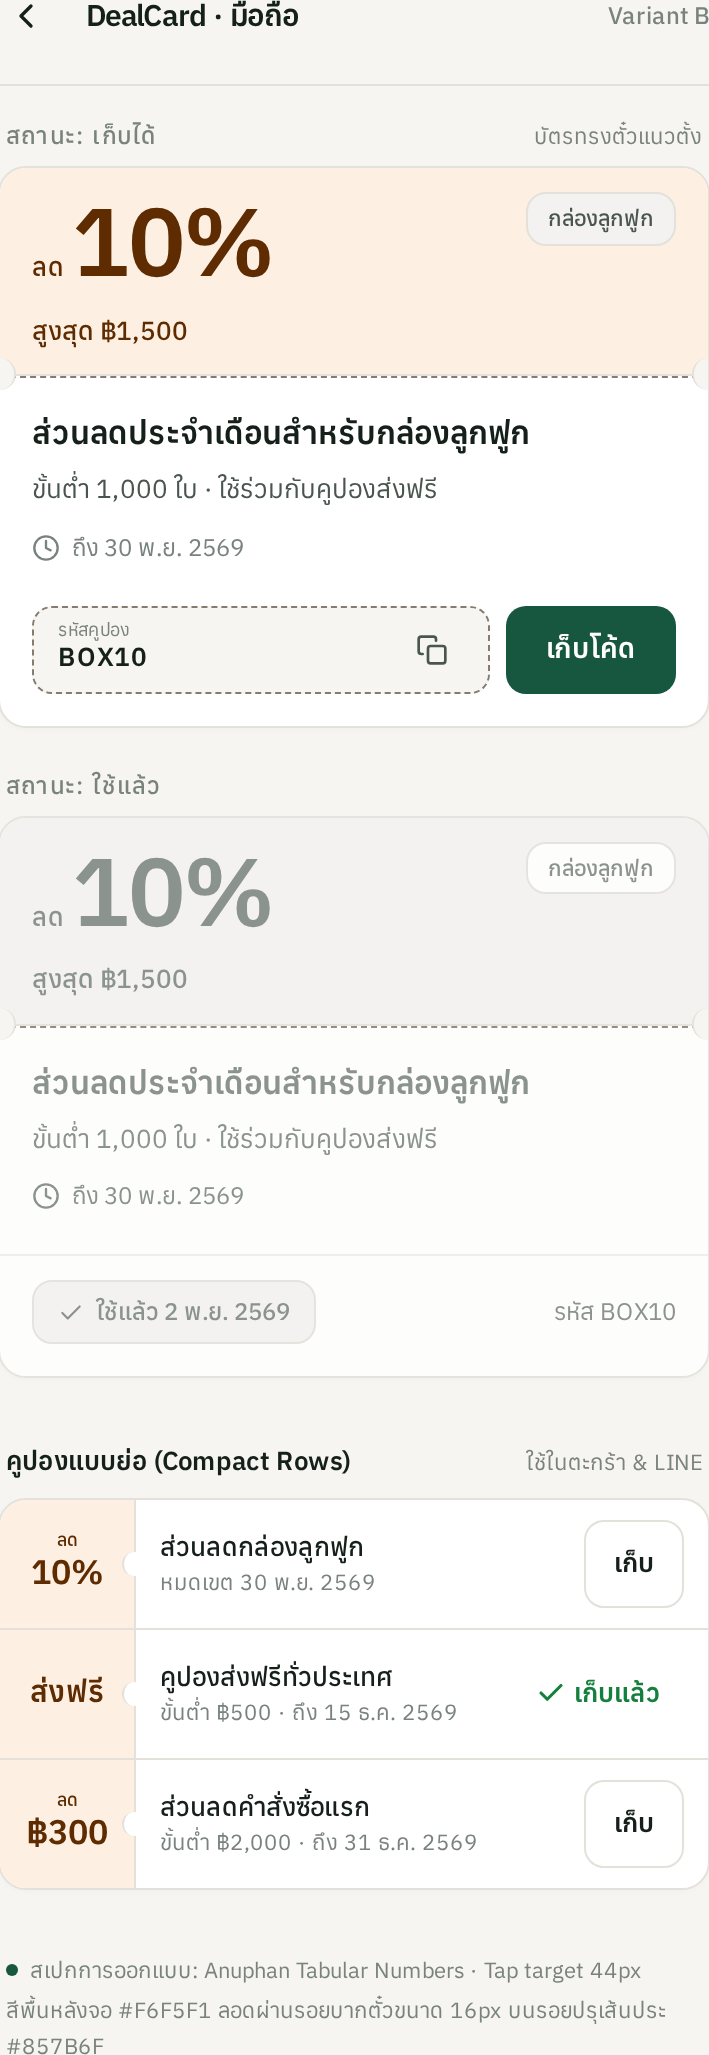
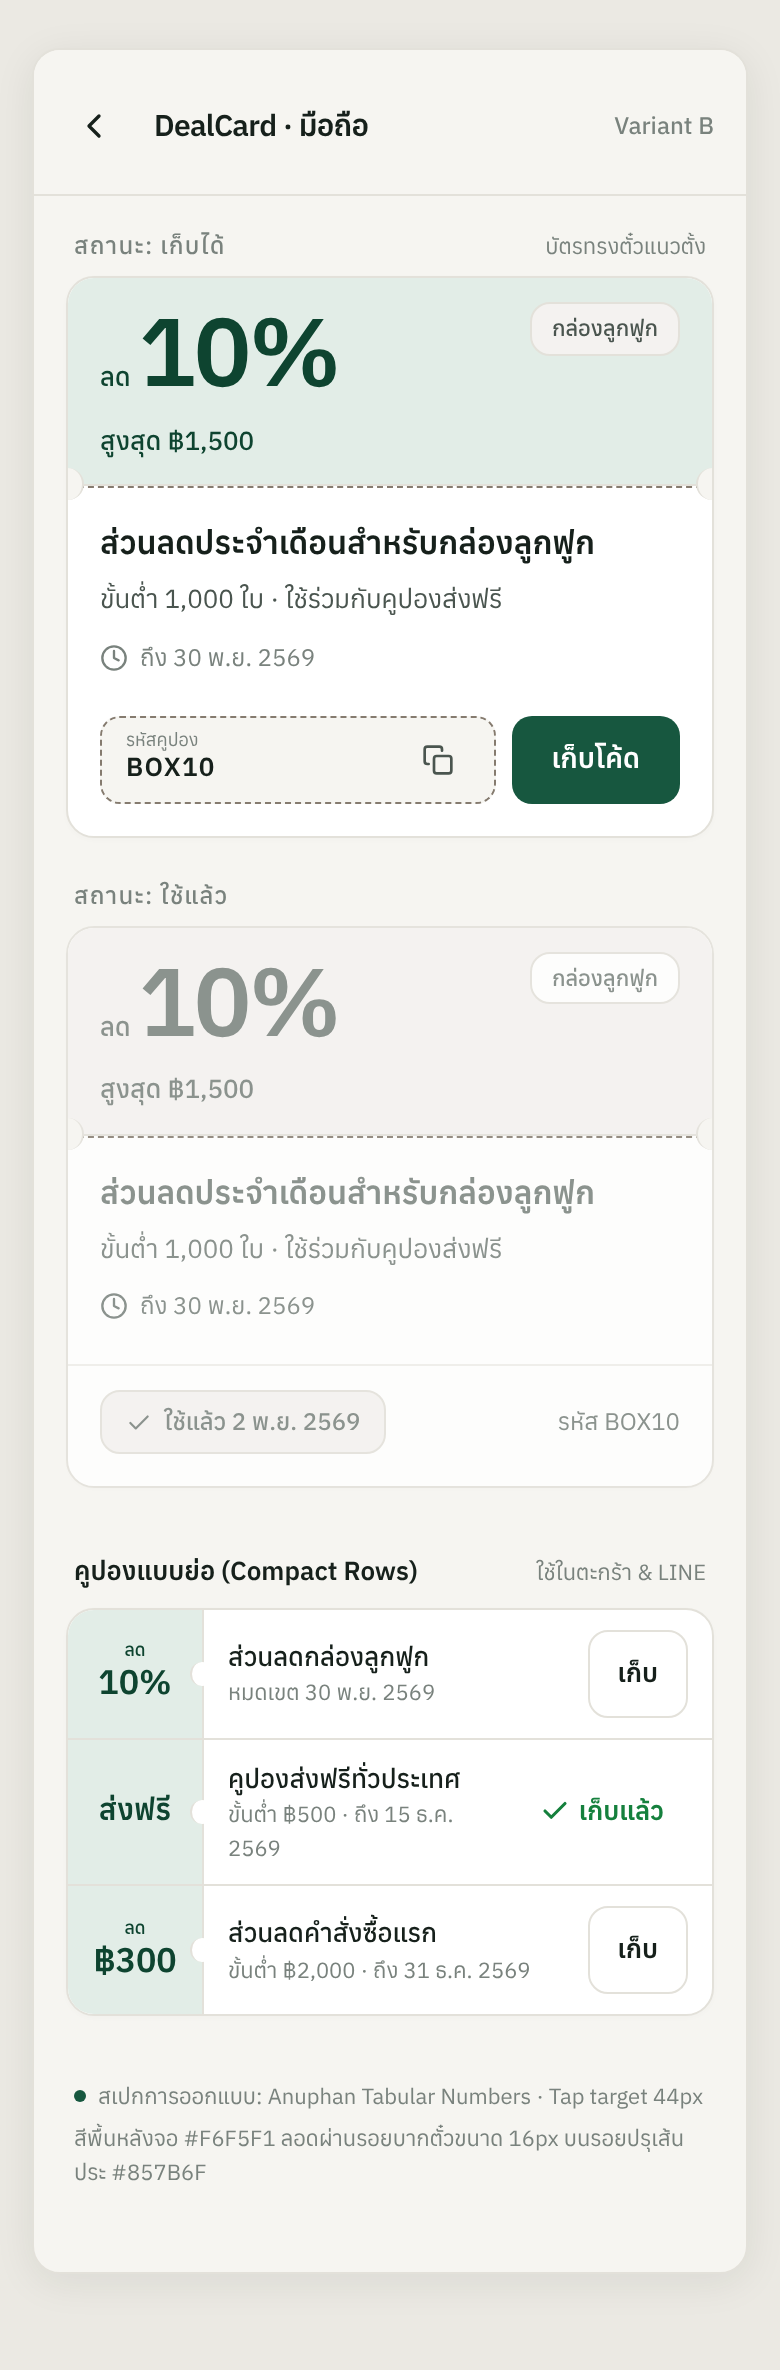
docs(loyalty): stitch design references for P1 and P1.5

diff --git a/docs/design/loyalty-earn-expansion/stitch/STITCH-NOTES.md b/docs/design/loyalty-earn-expansion/stitch/STITCH-NOTES.md
@@ -6,7 +6,7 @@ https://stitch.withgoogle.com/projects/10188146144340170426
 **Plan:** `../PLAN.md` §3 (earn checklist, P1) and §3.5 (deals surface, P1.5).
 
 > **Read round 2 first** (end of this file). The owner's coupon references (2026-11-04) changed DealCard, /deals and
-> /liff/deals to a **ticket form in getpack's own colours**. Round 2 supersedes sections a, b and f below. Sections
+> /liff/deals to a **ticket form in getpack's primary green** (owner decision, 15:02: no amber on tickets). Round 2 supersedes sections a, b and f below. Sections
 > c, d and e still stand; their compact rows pick up the mini-stub from round 2.
 
 Stitch output is a proposal only. The tokens, `GLOBAL-RULES.md` and PLAN.md win. **No Stitch code goes into the repo.**
@@ -128,7 +128,7 @@ stitch/
   - Other rows are clickable to set the quantity.
   - One nudge line under it ("เพิ่มอีก 500 ใบ ราคาต่อใบลดอีก 10% และใช้โปรลด 10% ได้").
 - From B:
-  - The promo box **below the price**, not above the selectors: `accent-subtle` with no border and one small `accent`
+  - The promo box **below the price**, not above the selectors: `primary-subtle` with no border (owner decision 2026-11-04: no amber fields) and one small `accent`
     badge "มีโปร", then the offer, "ใช้โค้ด BOX10 ในตะกร้า" and the link to /deals.
   - **"ราคาหลังโปรโดยประมาณ ฿x"**, computed by the same pricing service.
   - The `success` line "ถูกกว่าสั่ง 500 ใบ ฿1.48 ต่อใบ".
@@ -153,7 +153,7 @@ stitch/
 - From A (desktop):
   - "คูปองที่ใช้ได้กับตะกร้านี้" is always visible inside the order summary, with no hidden popover. It only shows
     what `GET /store/cart/applicable-codes` returns.
-  - The "คุ้มที่สุด" tag (`accent-subtle`) on the best saving.
+  - The "คุ้มที่สุด" tag (`primary-subtle` / `primary-subtle-fg`) on the best saving.
   - The manual entry "มีโค้ดอื่น?" stays (PLAN §3.5.3).
   - Applied codes appear as removable neutral chips.
   - The points switch "ใช้แต้ม … สูงสุด 20% ของยอด".
@@ -245,9 +245,10 @@ stitch/
    popover, sheet and sticky bar get `overlay`.
 4. **Glass:** a `backdrop-blur` sticky header on phone. Not in the language: use a solid `bg` with a hairline.
 5. **Tab counts:** shown as tinted little pills. Use plain `muted` numbers after the label ("สำหรับคุณ 3").
-6. **Amber discipline:** Stitch spreads `accent` everywhere. Solid `accent` + `fg` only for one badge per surface;
-   all others use `accent-subtle`/`accent-subtle-fg`. Never put amber on a button, a link or "ใกล้หมดเวลา"; that last
-   one is `warning` text.
+6. **Amber discipline** (owner decision 2026-11-04): Stitch spreads `accent` everywhere. Promotions use the
+   **primary family**: `primary-subtle` fields and stubs, `primary` for the featured stub. Solid `accent` + `fg` is
+   allowed only for **one small badge per surface** ("ดีลเด่น"). Never put amber on a field, a stub, a button, a link
+   or "ใกล้หมดเวลา"; that last one is `warning` text.
 7. **Radii:** Stitch kept 10/14/16 correctly. The repo aliases are `rounded-control` / `rounded-card` /
    `rounded-panel`. `rounded-full` is for dots and the 16 px status circle only (CI refuses it elsewhere).
 8. **Desktop width:** Stitch drew most desktops at 1280 px, so check the real pages at 1440 with content max 1180
@@ -318,7 +319,7 @@ rule: **take the form, not the colours.** Colours stay on getpack tokens.
 - Two zones: a **stub** carries the value only, and the **body** says what it is and until when. A perforation and
   semicircle notches mark the tear line.
 - The value is the hero: very large numerals with a small word stacked beside them.
-- One colour family in two strengths, solid on the featured coupon and light on the rest.
+- **One colour family in two strengths**, solid on the featured coupon and light on the rest. Ours is getpack green.
 - A dashed inner frame, which becomes our code box.
 - A postage-stamp scalloped edge, used **only on the featured ticket's stub**.
 
@@ -326,19 +327,52 @@ rule: **take the form, not the colours.** Colours stay on getpack tokens.
 we don't support; rotated text (vertical Thai is unreadable); "SUPER DISCOUNT"; and several coupon shapes in one set.
 The system uses one ticket form at different sizes.
 
+### Owner decision — 2026-11-04 15:02: tickets use the primary green, not amber
+
+The owner chose the system's main colour for the ticket stubs: **no yellow or orange on the tickets**. This is a
+deliberate exception to D-180 ("`accent` amber is for promotions only"). Record it as a D-5xx row in
+`decisions.md`: *"Coupon tickets use the primary family (two strengths); amber is limited to one small badge per
+surface."*
+
+Contrast checked:
+- white on `primary` #17573F: **8.50:1**;
+- `primary-subtle-fg` #0E4430 on `primary-subtle` #E2EDE7: **9.27:1**;
+- `primary-subtle` against the page #F6F5F1: only 1.10:1, so the ticket's 1px `border` must wrap the stub as well.
+
 **Colour mapping (`semantic.ts`):**
 
 | Part | Token | Value |
 |---|---|---|
-| Stub, normal ticket | `accent-subtle` / text `accent-subtle-fg` | #FDF0E3 / #5F2B00 |
-| Stub, featured ticket | `accent` / text `fg` (never white on amber, 2.69:1) | #E08A18 / #16201B |
+| Stub, normal ticket | `primary-subtle` / text `primary-subtle-fg` | #E2EDE7 / #0E4430 |
+| Stub, featured ticket (stamp edge) | `primary` / text `primary-fg` (white) | #17573F / #FFFFFF |
+| The one small "ดีลเด่น" badge | `accent` / text `fg` (never white on amber) | #E08A18 / #16201B |
+| Other tags on a ticket (product type …) | `neutral-subtle` / `neutral-subtle-fg` | #F4F2F0 / #564E45 |
 | Stub, used or expired | `neutral-subtle` / text `subtle` | #F4F2F0 / #79827D |
-| Ticket body | `surface`, edge `border` | #FFFFFF / #E3E1DA |
+| Ticket body | `surface`, edge `border` (wraps the stub too) | #FFFFFF / #E3E1DA |
 | Notches | cut-outs that show `bg` | #F6F5F1 |
 | Perforation and code-box dash | `border-strong` | #857B6F |
-| "เก็บโค้ด" | `primary` (the only green on the ticket) | #17573F |
-| "เหลือ 2 วัน" | `warning` text | #B45309 |
+| "เก็บโค้ด" | `primary` button | #17573F |
+| "เหลือ 2 วัน" | `warning` text (stays burnt orange, it is a status, not a decoration) | #B45309 |
 | "เก็บแล้ว" | `success` text with a line check | #15803D |
+
+**Hierarchy check: green stub next to a green button.** On the featured ticket the solid green stub and the green
+"เก็บโค้ด" sit side by side. This is fine because the stub is a large flat field with no affordance, and the button
+keeps its 10 px radius, its own padding and the hover state. On normal tickets the light stub separates clearly from
+the solid button. The secondary "เก็บโค้ด" (outline) stays the default in grids. Use the solid primary button only on
+the featured ticket and in the LIFF sheet, so the page does not end up with six solid green buttons.
+
+**How these PNGs were made (important for anyone comparing with Stitch).** The tickets were first generated in amber
+(round 2) and then recoloured with Stitch's `edit_screens`. Stitch applied the edits in its editor, but neither the
+screenshots nor the downloadable HTML were updated (same file ids and bytes). The PNGs in `round-2/` were therefore
+rendered locally with Playwright from the Stitch HTML. At render time the same rules as the edit prompts were applied:
+- amber stub → `primary` with white text;
+- promo tint → `primary-subtle` with `primary-subtle-fg`;
+- "ดีลเด่น" stays `accent`;
+- the copy fixes below.
+
+Layouts are exactly Stitch's. Where a page has fixed bars (the phone tab bar, the LIFF sticky bar), the full-page
+render shows them in the middle of the page. That is a screenshot artefact, not the design. Stitch's editor shows the
+edited versions under the same screen ids.
 
 ## Stitch screen ids (round 2)
 
@@ -355,7 +389,7 @@ The system uses one ticket form at different sizes.
 
 **Take**
 - From B, the vertical ticket for every card grid (/deals, home strip, coupon wallet):
-  - a 112–120 px top stub in `accent-subtle`;
+  - a 112–120 px top stub in `primary-subtle` (value in `primary-subtle-fg`);
   - "ลด" small above "10%" at 48–56 px/600 with "สูงสุด ฿1,500" on the same baseline;
   - the product tag top-right in the stub;
   - a horizontal perforation with 16 px notches on the left and right edges;
@@ -370,7 +404,7 @@ The system uses one ticket form at different sizes.
   - ใกล้หมดเวลา: `warning` validity.
 - From B, the **compact row**: a 64 px mini-stub with the value and one notch on its right edge, then headline + validity, then a 44 px action. The same component goes into the /deals phone list, the cart picker and LIFF.
 - From A:
-  - the **featured stub**: solid `accent` with a scalloped (postage-stamp) left edge, which is the most faithful echo of the references;
+  - the **featured stub**: solid `primary` green with white value and a scalloped (postage-stamp) left edge, which is the most faithful echo of the references;
   - the **value-type set** for stubs: "10%" numeral, "ส่งฟรี" word at 28 px, "฿300", "แต้ม ×2". The stub layout handles words as well as numbers.
 
 **Don't take**
@@ -384,7 +418,7 @@ The system uses one ticket form at different sizes.
 **Take**
 - From A, desktop:
   - the header (title + "12 ดีลที่ใช้ได้ · อัปเดต …");
-  - the featured horizontal ticket at full content width (stub 260 px solid `accent`, stamp edge, value 80 px);
+  - the featured horizontal ticket at full content width (stub 260 px solid `primary`, white value 80 px, stamp edge, one amber "ดีลเด่น" badge in the body);
   - underline tabs with plain `muted` counts and a quiet product-type select;
   - **3-column grid of vertical tickets**;
   - "ใช้คูปองอย่างไร" 01–03 next to the FAQ;
@@ -392,7 +426,7 @@ The system uses one ticket form at different sizes.
 - From B, desktop: the signed-in context **"คูปองของคุณ · เก็บไว้ 3 ใบ · ใช้ได้กับตะกร้าตอนนี้ 1 ใบ"**. Put it as a
   one-line strip under the header, shown only when signed in, rather than as a sticky aside. The aside narrows the grid to 2 columns.
 - Phone:
-  - A's vertical stamp hero (amber top stub with scalloped top edge, value 56 px), because it is the strongest first screen;
+  - A's vertical stamp hero (solid green top stub with scalloped top edge, white value 56 px), because it is the strongest first screen;
   - then B's **compact rows in one hairline container**, which give the most deals per scroll;
   - A's horizontal ticket stack is the alternative if the list stays at 6 deals or fewer.
 
@@ -412,7 +446,7 @@ The system uses one ticket form at different sizes.
 - From B:
   - the points strip and a segmented control "ดีลทั้งหมด | คูปองของฉัน (n)";
   - compact rows with mini-stubs;
-  - **the bottom sheet rendered as a ticket**: an amber stub band on top, a perforation with notches cut into the
+  - **the bottom sheet rendered as a ticket**: a solid green stub band on top, a perforation with notches cut into the
     sheet's edges, label/value conditions, the dashed code box, "เก็บโค้ด" and "ส่งดีลนี้ให้ทีม". This is the best
     single moment in the round, because the deal "tears off" into the sheet.
 - From A:
@@ -434,8 +468,8 @@ The system uses one ticket form at different sizes.
 - **Accessibility:** the stub is decorative structure, but its value is content. Give it a text equivalent
   ("ส่วนลด 10% สูงสุด ฿1,500") and keep the reading order stub → headline → validity → code → action. The
   perforation and notches are `aria-hidden`.
-- **Dark mode** (GLOBAL-RULES §7): the stub uses `accent-subtle` / `accent`, and the dark theme already defines
-  them (`accent` #F0A63A with ink, as the gate allows). The masks show whatever `bg` is.
+- **Dark mode** (GLOBAL-RULES §7): the stub uses `primary-subtle` / `primary`, which the dark theme already defines
+  (`primary` #56BC91, `primary-subtle` #17322A). The contrast gate decides the stub text there. The masks show whatever `bg` is.
 - **Sizes:**
   - grid ticket min width 280, max 360;
   - compact row 64–72 px tall;
@@ -470,3 +504,15 @@ whatever is really behind the ticket (page, band, sheet, dark theme).
 
 The LIFF B scrim `rgba(42,37,32,.45)` behind the sheet is fine as an overlay. In the build use the `overlay` token,
 not a hex.
+
+**Copy fixes applied in the recolour pass:**
+- "ลดทันที" → "ลด", "ลดทันบนบิล" → "ลดบนบิล", "ลดทันใจ" → "ส่วนลด";
+- removed "เหลืออีก 48 สิทธิ์" and "อัปเดตทุกวันจันทร์";
+- "เหลือสิทธิ์ 12 ใบสุดท้าย" → the validity date;
+- the FAQ "ภายใน 24 ชั่วโมง" → "หลังทีมงานตรวจสอบ";
+- the dark chip on the deals A phone hero became plain white text.
+
+**Still don't take** from the recoloured screens:
+- LIFF B now fills every row's "เก็บ" as a solid green button. In lists the row action stays secondary (outline).
+- deals A desktop's FAQ wording "ระบบจะคืนสิทธิ์คูปอง…" promises a refund behaviour we have not specified. The
+  real copy comes from `messages/*.json`.

diff --git a/docs/design/loyalty-earn-expansion/stitch/DESIGN.md b/docs/design/loyalty-earn-expansion/stitch/DESIGN.md
@@ -22,8 +22,10 @@ with judgement and restraint. Nothing may look generated or templated.
 - **Ink** `#16201B` · **secondary text** `#4A554F` · **muted/placeholder** `#79827D`
 - **Hairline** `#E3E1DA` · **strong line** `#857B6F` (inputs only)
 - **Primary (actions, links, current state)** `#17573F` · hover `#0E4430` · primary tint `#E2EDE7` (text on tint `#0E4430`)
-- **Promotion accent — the ONLY colour for deals/campaign badges** amber `#E08A18` with **ink text** (never white
-  on amber) · promo tint `#FDF0E3` with text `#5F2B00`. Amber is never a button, never a link, never a warning.
+- **Promotions and coupon tickets use the primary family** (owner decision 2026-11-04): normal stubs and promo fields
+  `#E2EDE7` with text `#0E4430`; the featured ticket's stub `#17573F` with white text. Amber `#E08A18` with **ink text**
+  (never white) is allowed only for **one small badge per surface** ("ดีลเด่น"). No yellow or orange fields, stubs,
+  buttons or links.
 - **Sage** `#5F7264` (white text) · sage tint `#E8F1EE` — quiet full-width bands.
 - **Kraft** `#DCCDB3` / `#C8A97B` — decoration and packaging illustration only, never text.
 - **Status:** success `#15803D` (tint `#F6FCF7`, text `#00491B`) · warning (burnt orange, not promo) `#B45309`
@@ -45,8 +47,10 @@ with judgement and restraint. Nothing may look generated or templated.
 - **Primary button:** `#17573F` fill, white 600 text, 10px radius, 40px tall (44px on phone). One per screen area.
 - **Secondary button:** white fill, 1px `#E3E1DA` border, ink text. **Ghost/link:** primary text, underline on hover.
 - **Card:** white, 1px hairline, 14px radius, 20–24px padding, no shadow at rest. No cards inside cards.
-- **Promo badge:** amber `#E08A18` fill + ink text, 10px radius rectangle (not a pill), 12–13px 600; or promo tint
-  `#FDF0E3` + `#5F2B00` for quieter use. Max one badge per card.
+- **Promo badge:** the single "ดีลเด่น" badge is amber `#E08A18` + ink text, 10px radius (not a pill), 12–13px 600.
+  Every other tag is neutral `#F4F2F0` + `#564E45`.
+- **Coupon ticket:** stub (value only) + body, dashed perforation with semicircle notches, dashed code box; stub in
+  `#E2EDE7`/`#0E4430`, featured stub `#17573F`/white with a postage-stamp edge.
 - **Tabs:** underline tabs (2px primary underline on the active tab, ink text; others secondary text). Not pills.
 - **Chips / tags:** 10px radius, neutral tint `#F4F2F0`, 13px 500.
 - **Coupon code:** code in tabular 600 on a `#EFEEE9` field with a dashed `#857B6F` 1px border, copy action beside it.
